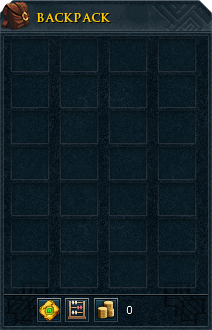
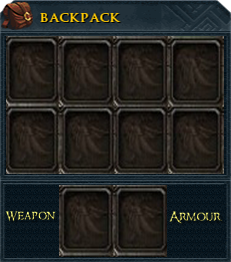
Finalized inventory image

diff --git a/src/ui/panels/InventoryPanel.java b/src/ui/panels/InventoryPanel.java
@@ -16,19 +16,23 @@ public class InventoryPanel extends JLayeredPane implements MouseListener{
 	Image backgroundImage; 
 	Item[][] inventArray = new Item[4][7];
 	InventoryBackground inventBackground = new InventoryBackground();
+	private int pressedX, pressedY;
+	private Item movedItem;
+
 
 	public InventoryPanel(){
 		setLayout(null);
-		setBounds(790, 450, 210, 330);
-			
+		setBounds(765, 520, 231, 262);
+
 		//Add invent background
 		this.add(inventBackground,0,0);
-		
+
 		//Add invent items
 		inventArray[0][0] = null;
 		populateInvent();
+		addMouseListener(this);
 	}
-	
+
 	public void addItem(Item item){
 		for(int i = 0; i < inventArray[0].length; i++){
 			for(int j = 0; j < inventArray.length; j++){
@@ -46,7 +50,7 @@ public class InventoryPanel extends JLayeredPane implements MouseListener{
 			}
 		}
 	}
-	
+
 	public void addItemTo(int x1, int y1, int x2, int y2){
 		if(inventArray[x2][y2] == null){
 			inventArray[x2][y2] = inventArray[x1][y1];
@@ -59,48 +63,78 @@ public class InventoryPanel extends JLayeredPane implements MouseListener{
 		}
 		populateInvent();
 	}
-	
+
 	private void populateInvent(){
 		this.removeAll();
 		this.add(inventBackground,0,0);
+
+		for(int i = 0; i < inventArray.length; i++){
+			for(int j = 0; j < inventArray[0].length; j++){
+				if(inventArray[i][j] != null){
+					inventArray[i][j].setX(13+(i*49));
+					inventArray[i][j].setY(37+(j*36));
+				}
+			}
+		}
+
 		for(int i = 0; i < inventArray.length; i++){
 			for(int j = 0; j < inventArray[0].length; j++){
 				if(inventArray[i][j] != null){
 					JLabel item = new JLabel(inventArray[i][j].getImage());
-					item.setBounds(13 + (i*49),37 + (j*36),35,35);
+					item.setBounds(inventArray[i][j].getX(), inventArray[i][j].getY(), 35,35);
 					this.add(item,1,0);
+				}
+			}
+		}
+
+		//		for(int i = 0; i < inventArray.length; i++){
+		//			for(int j = 0; j < inventArray[0].length; j++){
+		//				if(inventArray[i][j] != null){
+		//					JLabel item = new JLabel(inventArray[i][j].getImage());
+		//					item.setBounds(13 + (i*49),37 + (j*36),35,35);
+		//					this.add(item,1,0);
+		//				}
+		//			}
+		//		}
+	}
+
+	@Override
+	public void mouseClicked(MouseEvent e) {
+		// TODO Auto-generated method stub
+	}
+
+	@Override
+	public void mouseEntered(MouseEvent arg0) {
+		// TODO Auto-generated method stub
+
+	}
+
+	@Override
+	public void mouseExited(MouseEvent arg0) {
+		// TODO Auto-generated method stub
+
+	}
+
+	@Override
+	public void mousePressed(MouseEvent e) {
+		this.pressedX = e.getX();
+		this.pressedY = e.getY();
+		System.out.println(pressedX);
+		System.out.println(pressedY);
+		for(int i = 0; i < inventArray.length; i++){
+			for(int j = 0; j < inventArray[0].length; j++){
+				if(inventArray[i][j] != null){
+					if(inventArray[i][j].contains(e.getX(), e.getY())){
+						movedItem = inventArray[i][j];
+					}
 				}
 			}
 		}
 	}
 
 	@Override
-	public void mouseClicked(MouseEvent arg0) {
-		// TODO Auto-generated method stub
-		
-	}
-
-	@Override
-	public void mouseEntered(MouseEvent arg0) {
-		// TODO Auto-generated method stub
-		
-	}
-
-	@Override
-	public void mouseExited(MouseEvent arg0) {
-		// TODO Auto-generated method stub
-		
-	}
-
-	@Override
-	public void mousePressed(MouseEvent e) {
-		// TODO Auto-generated method stub
-		
-	}
-
-	@Override
 	public void mouseReleased(MouseEvent e) {
 		// TODO Auto-generated method stub
-		
+
 	}
 }

diff --git a/src/ui/ApplicationWindow.java b/src/ui/ApplicationWindow.java
@@ -80,8 +80,7 @@ public class ApplicationWindow extends JFrame implements ActionListener, KeyList
 		setupMenu();
 		
 		//Setup buttons
-		setupButtons();
-			
+		setupButtons();		
 	}
 
 	/**
@@ -161,8 +160,8 @@ public class ApplicationWindow extends JFrame implements ActionListener, KeyList
 		this.add(addPotionButton,0);
 		
 		//Temp label
-		JLabel temp = new JLabel("Press I to open Invent");
-		temp.setBounds(300,800,150,20);
+		JLabel temp = new JLabel("Press I to open Loot Inventory");
+		temp.setBounds(250,800,200,20);
 		this.add(temp, 0);
 		
 		//Test Button
@@ -203,6 +202,10 @@ public class ApplicationWindow extends JFrame implements ActionListener, KeyList
 		}
 		window.setVisible(false);
 		window.dispose();
+	}
+	
+	public void repaintRenderingWindow(){
+		rw.repaint();
 	}
 	
 	/**

diff --git a/src/ui/panels/Item.java b/src/ui/panels/Item.java
@@ -11,6 +11,7 @@ public class Item {
 	private ImageIcon image;
 	private String potionImage = "src/ui/images/potionInventItem.png";
 	private String shankImage = "src/ui/images/shankInventImageSize.png";
+	private int x,y;
 	
 	public Item(String n, String d){
 		this.Name = n;
@@ -27,4 +28,17 @@ public class Item {
 	public String getName(){return this.Name;}
 	public String getDesciption(){return this.Description;}
 	public ImageIcon getImage(){return this.image;}
+	public void setX(int x){this.x = x;}
+	public void setY(int y){this.y = y;}
+	public int getX(){return this.x;}
+	public int getY(){return this.y;}
+	
+	public boolean contains(int x, int y){
+		if(x >= this.x && x <= this.x + 35){
+			if(y >= this.y && y <= this.y + 35){
+				return true;
+			}
+		}
+		return false;
+	}
 }

diff --git a/src/ui/panels/InventoryBackground.java b/src/ui/panels/InventoryBackground.java
@@ -17,12 +17,12 @@ public class InventoryBackground extends JPanel{
 		setLayout(null);
 		setOpaque(false);
 		try{
-			backgroundImage = ImageIO.read(new File("src/ui/images/inventImageTransparent.png"));
+			backgroundImage = ImageIO.read(new File("src/ui/images/inventImageMaster.png"));
 		}catch(IOException e){
 			System.out.println(e.getLocalizedMessage());
 		}
 		setBorder(new EmptyBorder(0, 5, 5, 5));
-		setBounds(0, 0, 210, 330);	
+		setBounds(0, 0, 231, 262);	
 	}
 	
 	public void paintComponent(Graphics g) { 
